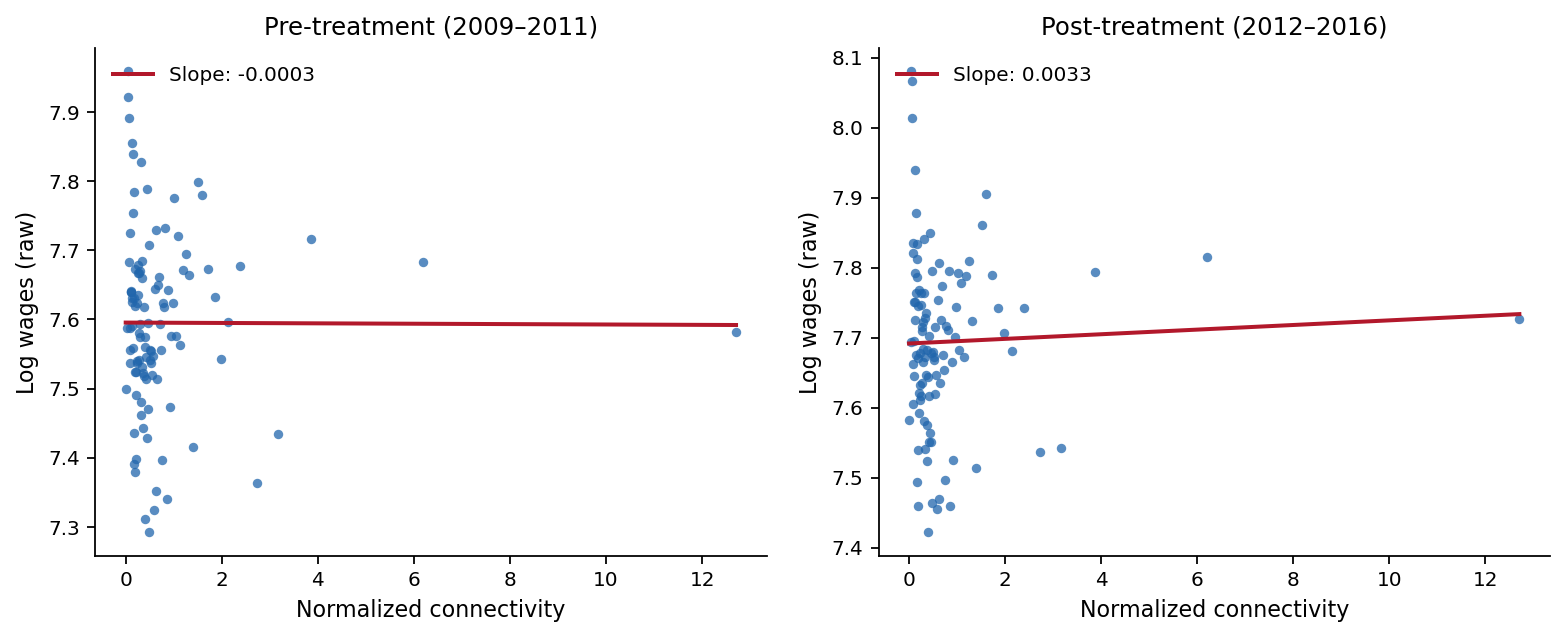
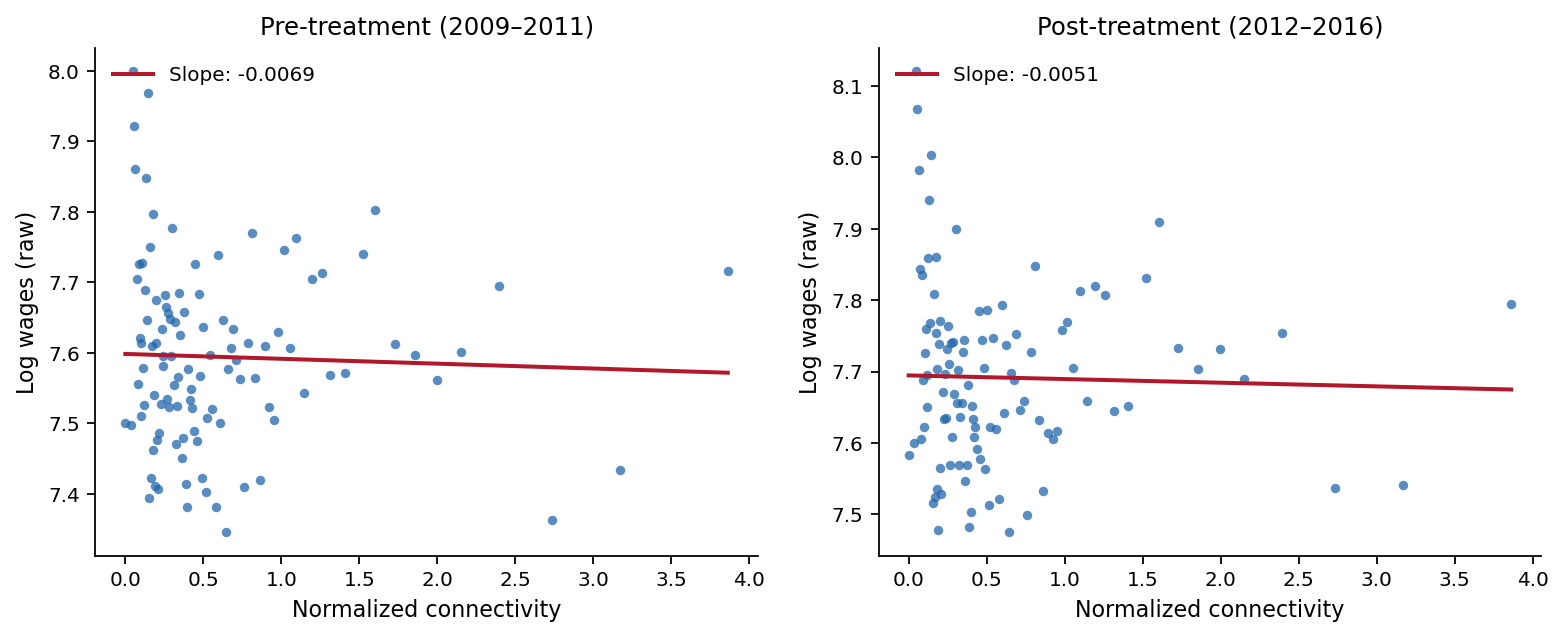
conn_margins: trim connectivity at p99 to remove outliers
Top 1% (41 firms, conn > 4.44x p90) are tiny branches of large
multi-establishment companies — size artifacts where 1-2 worker flows
produce extreme per-worker ratios. Both scatter scripts now trim at p99.

diff --git a/Programs/conn_margins/conn_margins_scatter.py b/Programs/conn_margins/conn_margins_scatter.py
@@ -2,7 +2,7 @@
 """
 Binned scatter: residualized log wages vs. normalized connectivity.
 Two panels: pre-treatment (2009-2011) and post-treatment (2012-2016).
-100 equal-frequency bins; fitted OLS line.
+200 equal-frequency bins; fitted OLS line.
 """
 
 import numpy as np
@@ -19,9 +19,11 @@ graphs_dir.mkdir(parents=True, exist_ok=True)
 
 df = pd.read_csv(tables_dir / "scatter_resid_wages.csv")
 df = df.dropna(subset=["conn_firm", "e_pre", "e_post"])
-print(f"Firms loaded: {len(df):,}")
+p99 = df["conn_firm"].quantile(0.99)
+df = df[df["conn_firm"] <= p99]
+print(f"Firms loaded (trimmed at p99={p99:.4f}): {len(df):,}")
 
-N_BINS = 100
+N_BINS = 200
 
 
 # ── Helpers ───────────────────────────────────────────────────────────────────

diff --git a/Programs/conn_margins/conn_margins_scatter_raw.py b/Programs/conn_margins/conn_margins_scatter_raw.py
@@ -19,7 +19,9 @@ graphs_dir.mkdir(parents=True, exist_ok=True)
 
 df = pd.read_csv(tables_dir / "scatter_resid_wages.csv")
 df = df.dropna(subset=["conn_firm", "raw_pre", "raw_post"])
-print(f"Firms loaded: {len(df):,}")
+p99 = df["conn_firm"].quantile(0.99)
+df = df[df["conn_firm"] <= p99]
+print(f"Firms loaded (trimmed at p99={p99:.4f}): {len(df):,}")
 
 N_BINS = 200
 
